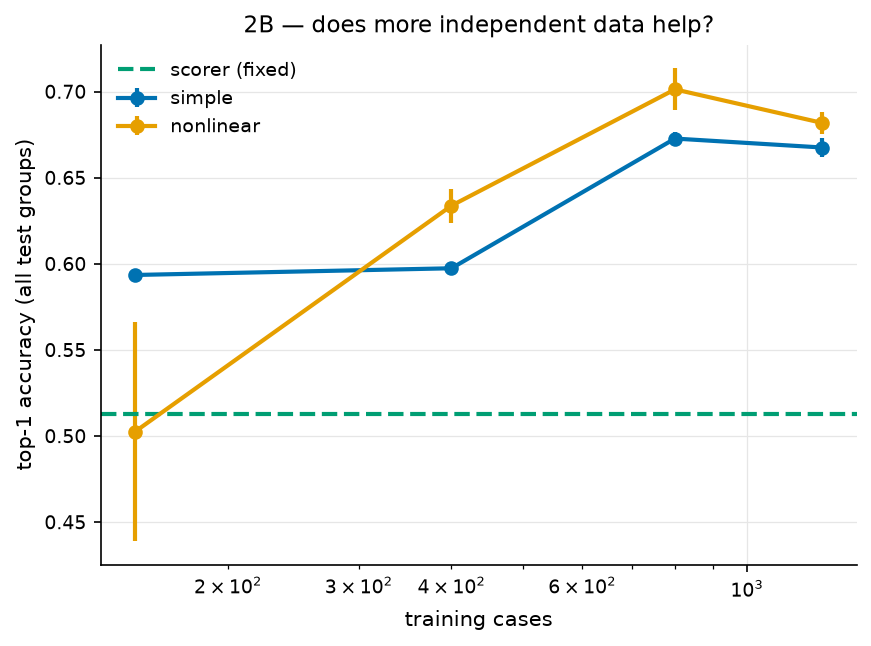
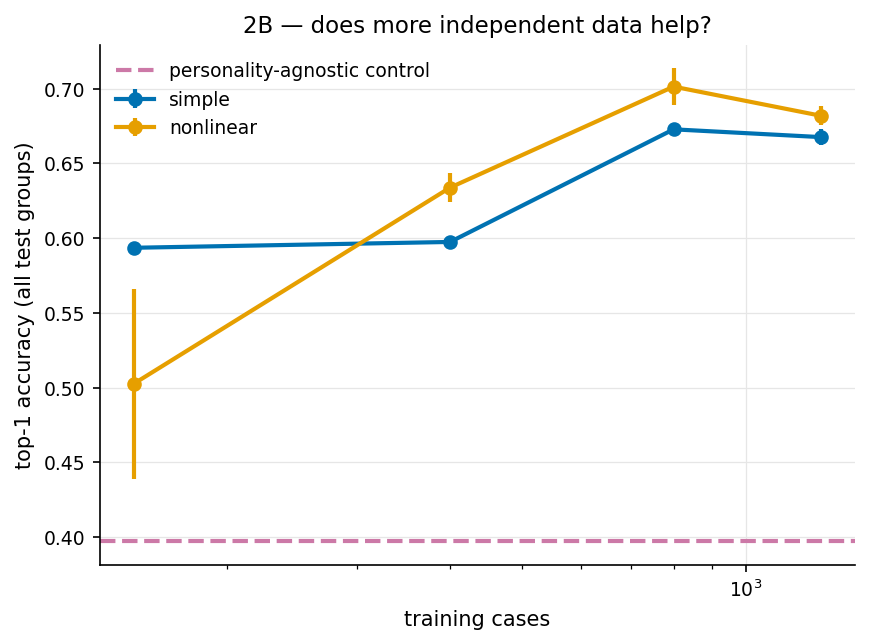
rq2: policy comparison belongs to the human study, not RQ2
RQ2 asks only whether the learned policies can acquire the relationships and
generalise. Scoring the hand-authored scorer against the independent labels is
confounded - the learned models are fit to those labels, the scorer encodes the
author's intuitions - so a lower agreement score means "different from this
annotator", not "worse policy". The scorer is dropped from both 2B figures
(data-size reference line is now the agnostic control) and from the RQ2
narrative; its per-group agreement pattern is retained as a representation
diagnostic in the discussion (action tags at the base locations diverge from an
independent annotator's semantics; the equation still extrapolates to the unseen
location). No numbers deleted - main_table.csv and diagnostics.csv are unchanged.
RQ2 wording and the Study 3 scope updated in CLAUDE.md and project_flow.md.

diff --git a/experiments/rq2/run_2b.py b/experiments/rq2/run_2b.py
@@ -36,6 +36,14 @@ from .train_2b import NONLINEAR_MODELS, SIMPLE_MODELS
 SYSTEM_COLORS = {"uniform": "#CCCCCC", "agnostic_simple": "#999999",
                  "agnostic_nonlinear": "#CC79A7", "scorer": "#009E73",
                  "simple": "#0072B2", "nonlinear": "#E69F00"}
+# RQ2 asks about acquisition and generalisation, not about which policy is better.
+# The scorer is fit to the author's intuitions and the learned models to these
+# labels, so a horse race between them is confounded (revised 2026-07-12; policy
+# comparison belongs to the human study). Its per-case rows stay in main_table.csv
+# and diagnostics.csv as a representation diagnostic, but it is kept out of the
+# figures, which are RQ2 evidence.
+PLOT_SYSTEMS = ("uniform", "agnostic_simple", "agnostic_nonlinear",
+                "simple", "nonlinear")
 _TINY = np.finfo(float).tiny
 
 
@@ -201,11 +209,12 @@ def eval_main(argv=None) -> None:
                         [r["top1_mean"] for r in pts],
                         yerr=[r["top1_std"] for r in pts],
                         marker="o", color=SYSTEM_COLORS[fam], label=fam)
-        sco_all = [r for r in per_seed_rows if r["system"] == "scorer"
-                   and r["group"] == "all" and r["decision_type"] == "all"]
-        if sco_all:
-            ax.axhline(sco_all[0]["top1"], ls="--", color=SYSTEM_COLORS["scorer"],
-                       label="scorer (fixed)")
+        agn = [r for r in table if r["system"] == "agnostic_nonlinear"
+               and r["group"] == "all" and r["decision_type"] == "all"]
+        if agn:
+            ax.axhline(agn[0]["top1_mean"], ls="--",
+                       color=SYSTEM_COLORS["agnostic_nonlinear"],
+                       label="personality-agnostic control")
         ax.set_xscale("log")
         ax.set_xlabel("training cases")
         ax.set_ylabel("top-1 accuracy (all test groups)")
@@ -218,7 +227,7 @@ def eval_main(argv=None) -> None:
     fig, ax = plt.subplots(figsize=(9, 4.5))
     plot_groups = ("all",) + TEST_GROUPS
     x = np.arange(len(plot_groups))
-    systems = [s for s in SYSTEM_COLORS if any(r["system"] == s for r in table)]
+    systems = [s for s in PLOT_SYSTEMS if any(r["system"] == s for r in table)]
     for i, sys_ in enumerate(systems):
         ys, es = [], []
         for grp in plot_groups:
